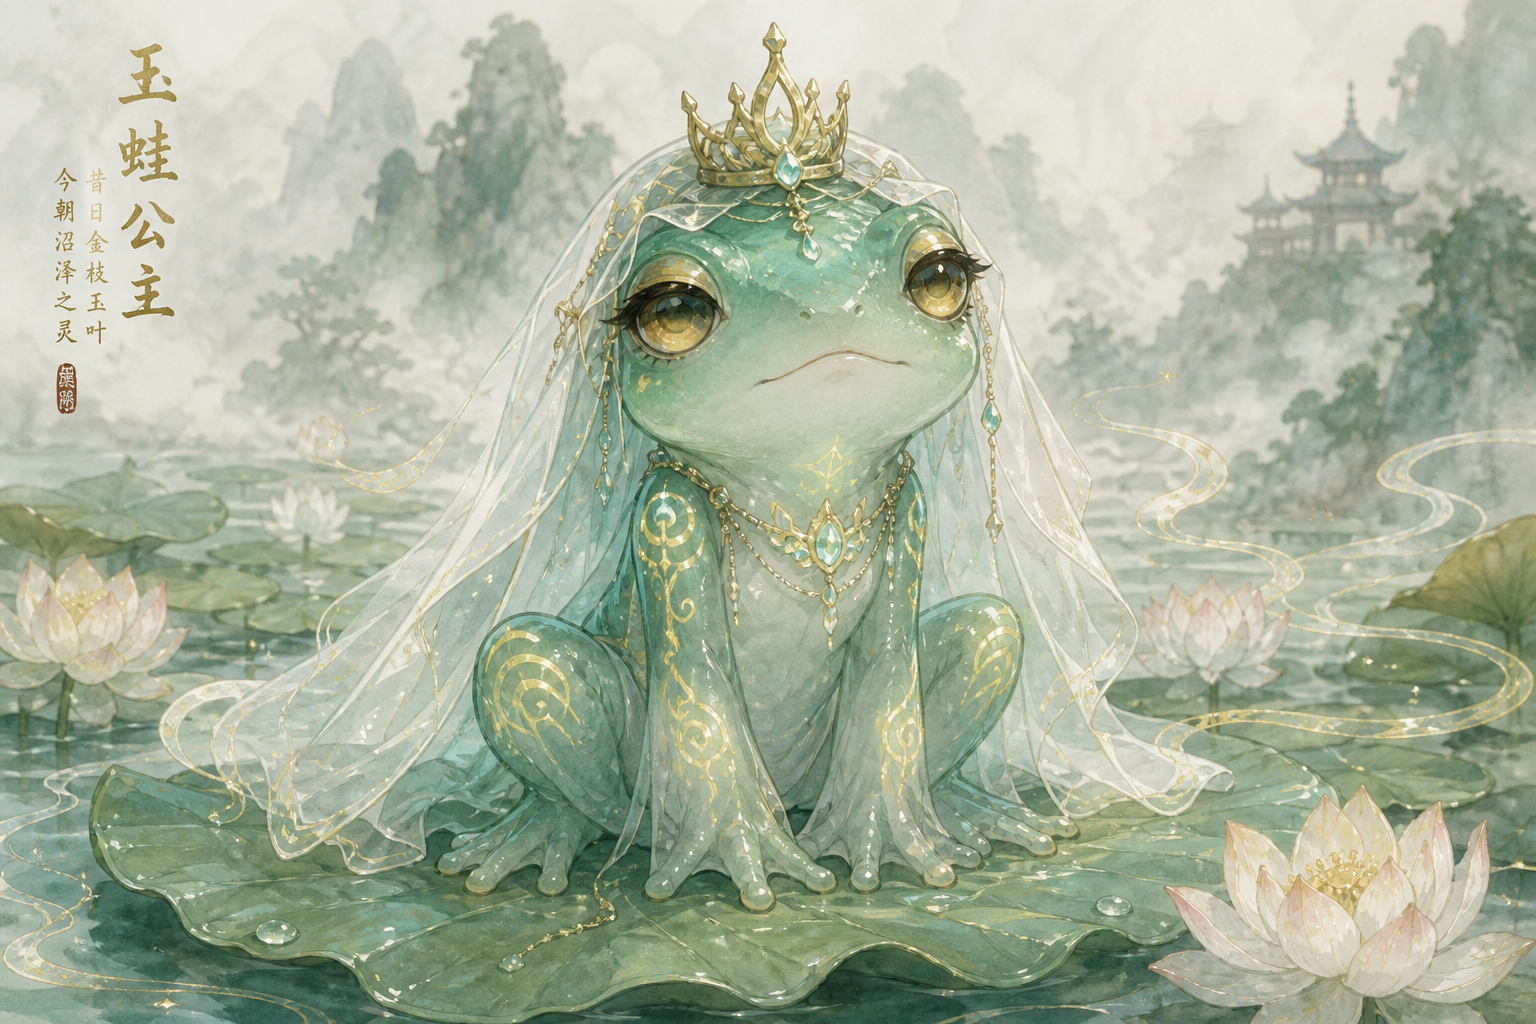
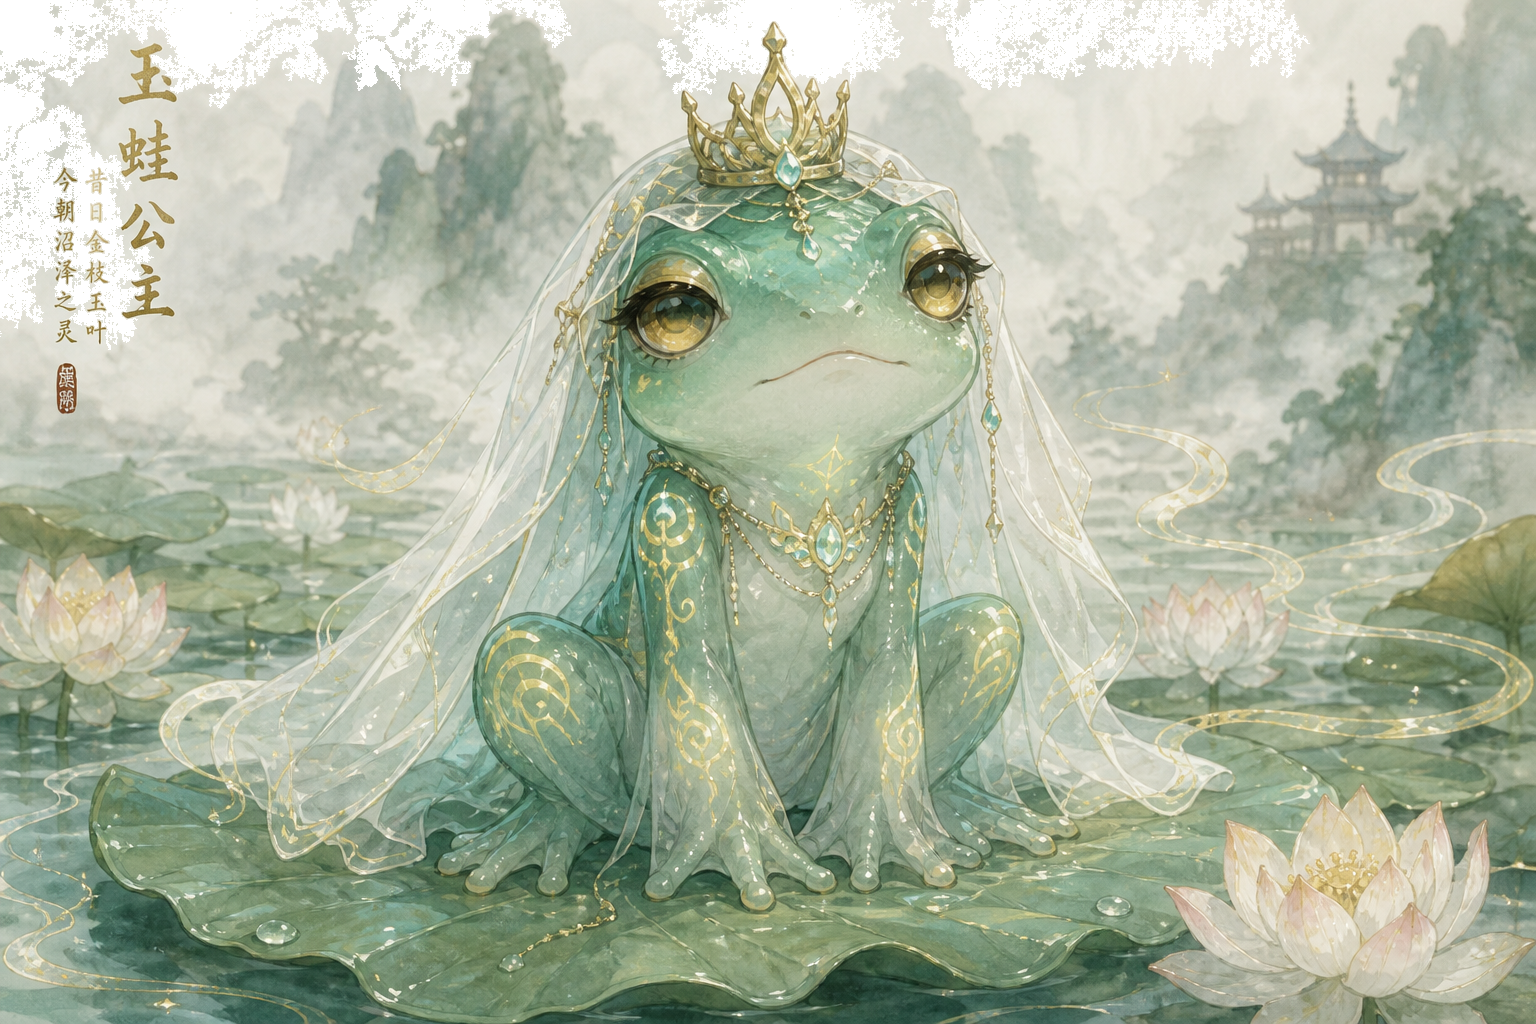
fix: 去除角色立绘与精灵图白色背景方块
角色 PNG 为 RGB 无透明通道，白底在游戏里显示为方块。
边缘泛洪抠图转 RGBA，精灵图按帧单独处理保留白衣等主体。

Changed region(s): [[0.0, 0.0, 0.375, 0.3438], [0.4062, 0.0, 0.8438, 0.0938]]

diff --git a/scripts/remove-character-bg.py b/scripts/remove-character-bg.py
@@ -1,0 +1,83 @@
+#!/usr/bin/env python3
+"""Remove baked-in white/checkerboard backgrounds from character PNGs."""
+from pathlib import Path
+from PIL import Image
+
+ROOT = Path(__file__).resolve().parents[1] / 'public/assets/characters'
+
+SHEETS = {
+  'warrior_sheet.png': 4,
+  'frog_princess_sheet.png': 4,
+  'princess_sheet.png': 3,
+  'dragon_sheet.png': 3,
+}
+
+
+def is_bg(r, g, b):
+  if r > 232 and g > 232 and b > 232:
+    return True
+  if abs(r - g) < 10 and abs(g - b) < 10 and r > 195:
+    return True
+  return False
+
+
+def flood_clear(im: Image.Image) -> Image.Image:
+  rgba = im.convert('RGBA')
+  w, h = rgba.size
+  px = rgba.load()
+  seen = set()
+  stack = []
+
+  for x in range(w):
+    for y in (0, h - 1):
+      if is_bg(*px[x, y][:3]):
+        stack.append((x, y))
+  for y in range(h):
+    for x in (0, w - 1):
+      if is_bg(*px[x, y][:3]):
+        stack.append((x, y))
+
+  while stack:
+    x, y = stack.pop()
+    if (x, y) in seen or x < 0 or y < 0 or x >= w or y >= h:
+      continue
+    if not is_bg(*px[x, y][:3]):
+      continue
+    seen.add((x, y))
+    px[x, y] = (px[x, y][0], px[x, y][1], px[x, y][2], 0)
+    stack.extend([(x + 1, y), (x - 1, y), (x, y + 1), (x, y - 1)])
+
+  return rgba
+
+
+def process_frame_strip(path: Path, frames: int):
+  im = Image.open(path)
+  fw = im.width // frames
+  fh = im.height
+  out = Image.new('RGBA', im.size)
+  for i in range(frames):
+    frame = im.crop((i * fw, 0, (i + 1) * fw, fh))
+    out.paste(flood_clear(frame), (i * fw, 0))
+  out.save(path, 'PNG')
+  print(f'sheet {path.name} ({frames} frames)')
+
+
+def process_standalone(path: Path):
+  flood_clear(Image.open(path)).save(path, 'PNG')
+  print(f'standalone {path.name}')
+
+
+def main():
+  for name, frames in SHEETS.items():
+    p = ROOT / name
+    if p.exists():
+      process_frame_strip(p, frames)
+
+  for p in sorted(ROOT.glob('*.png')):
+    if p.name in SHEETS:
+      continue
+    process_standalone(p)
+
+
+if __name__ == '__main__':
+  main()

diff --git a/scripts/import-user-assets.py b/scripts/import-user-assets.py
@@ -70,6 +70,9 @@ def main():
         split_ui_sheet(ui_src)
         print('ok UI sheet split -> ui/ui_joystick.png + ui/ui_skill_btn.png')
 
+    import subprocess
+    subprocess.run(['python3', str(Path(__file__).parent / 'remove-character-bg.py')], check=True)
+
 
 if __name__ == '__main__':
     main()
